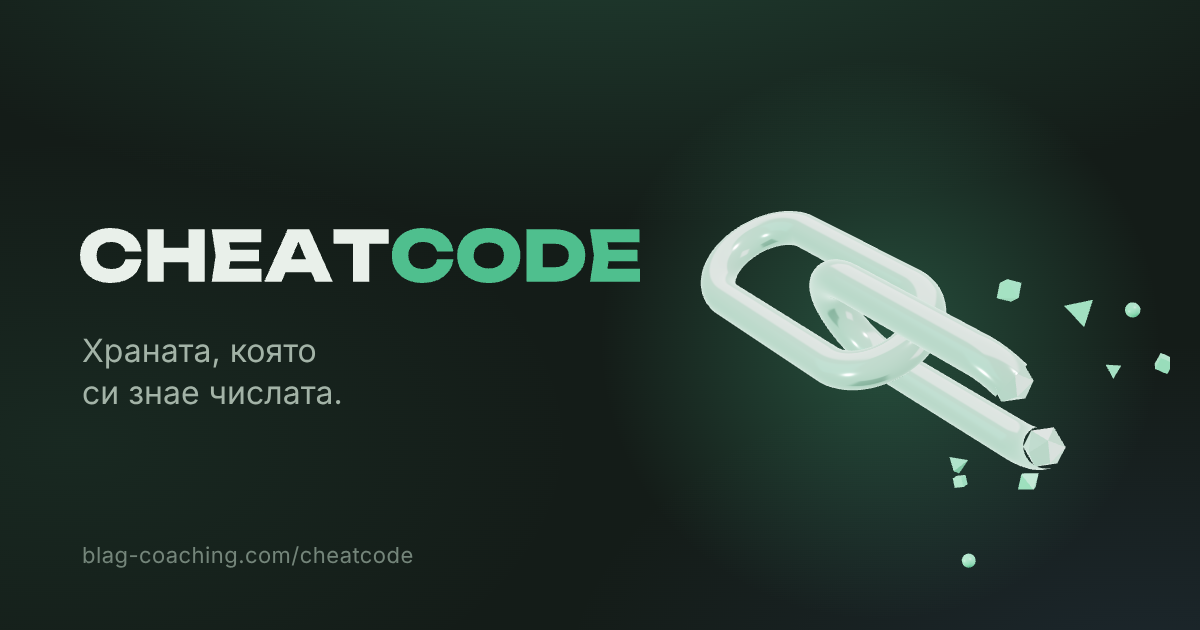
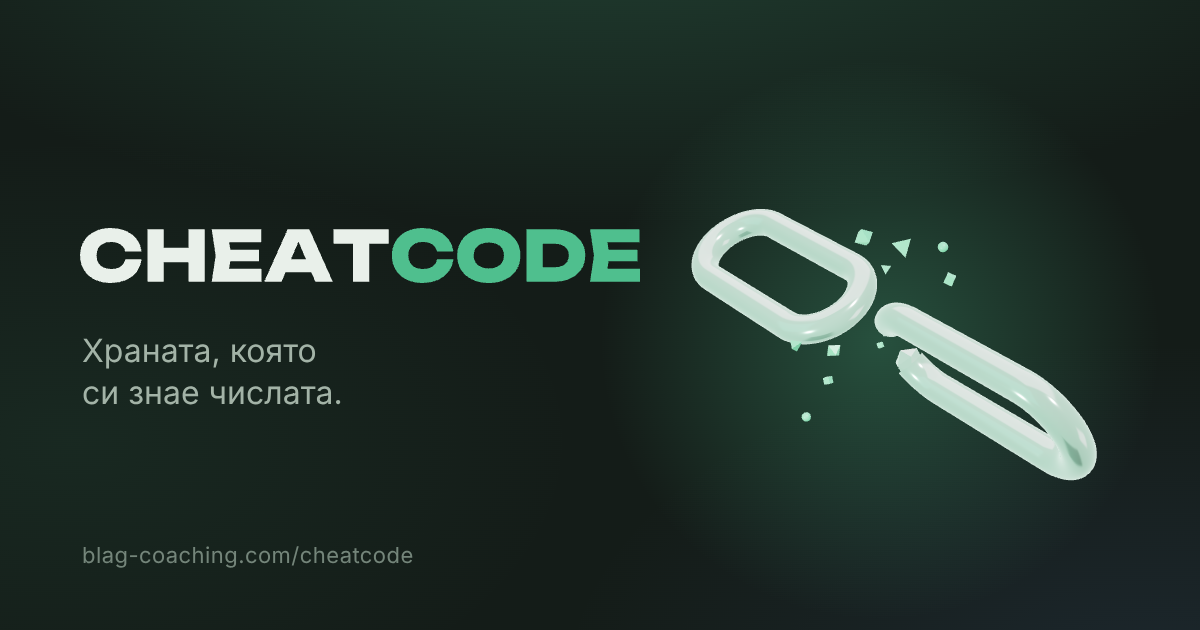
feat(чийт код): стъклената верига се къса между звената
Пролуката беше на външната дъга на второто звено и веригата се четеше като
цяла. Сега е на дъгата, която минава през първото: звената се раздалечават,
отломките са между тях. Важи навсякъде — сплаш, шапката на писмата, og.png,
CoKitchen. `gap: 'end'` връща стария вид.

Claude-Session: https://claude.ai/code/session_01KZMXYUK7WnieZQhZs7vYW8

diff --git a/public/cheatcode/glass-chain.js b/public/cheatcode/glass-chain.js
@@ -13,8 +13,10 @@
  *   gc.pose({ apart, shake, broken, burst }); gc.draw(ms)
  *   gc.idle(stageEl)   — люлеене и следене на мишката, както в CoKitchen
  *
- * Две звена-капсули под прав ъгъл; второто е скъсано на външната си дъга,
- * където нищо не я закрива. Отломките са в зеленото на марката. */
+ * Две звена-капсули под прав ъгъл. Скъсването е МЕЖДУ тях: второто звено
+ * се къса на дъгата, която минава през първото, и звената се разделят —
+ * първото излиза през пролуката. (До 08.10 пролуката беше на външната дъга
+ * на второто — `gap: 'end'` я връща.) Отломките са в зеленото на марката. */
 (function () {
   'use strict';
 
@@ -89,15 +91,18 @@
     link1.position.x = -0.95;
     chain.add(link1);
 
-    /* Второто звено: цяло (преди скъсването) и скъсано. Пролуката е 0.30–0.43. */
+    /* Второто звено: цяло (преди скъсването) и скъсано. Пролуката е част от
+       обиколката: 0.82–0.93 е средата на лявата дъга — тази, която минава
+       през първото звено; 0.30–0.43 е външната дъга. */
+    var GAP = opts.gap === 'end' ? [0.30, 0.43] : [0.82, 0.93];
     var link2 = new THREE.Group();
     link2.rotation.x = Math.PI / 2;
     link2.position.x = 0.95;
     var whole = new THREE.Mesh(new THREE.TubeGeometry(new Stadium(H, R, 0, 1), 220, T, 28, true), glass);
     var torn = new THREE.Group();
-    torn.add(new THREE.Mesh(new THREE.TubeGeometry(new Stadium(H, R, 0.43, 1.30), 220, T, 28, false), glass));
+    torn.add(new THREE.Mesh(new THREE.TubeGeometry(new Stadium(H, R, GAP[1], 1 + GAP[0]), 220, T, 28, false), glass));
     var capGeo = new THREE.IcosahedronGeometry(T * 1.02, 0);
-    [0.43, 0.30].forEach(function (u) {
+    [GAP[1], GAP[0]].forEach(function (u) {
       var m = new THREE.Mesh(capGeo, glass); m.position.copy(new Stadium(H, R, 0, 1).getPoint(u)); torn.add(m);
     });
     link2.add(whole); link2.add(torn);
@@ -111,7 +116,7 @@
        трябва да са цветовете на страницата, а не избелелите им линейни двойници. */
     if (dark) { glass.color.convertSRGBToLinear(); green.color.convertSRGBToLinear(); green.emissive.convertSRGBToLinear(); }
     var shards = [];
-    var gapAt = new THREE.Vector3().copy(new Stadium(H, R, 0, 1).getPoint(0.365))
+    var gapAt = new THREE.Vector3().copy(new Stadium(H, R, 0, 1).getPoint((GAP[0] + GAP[1]) / 2))
       .applyEuler(new THREE.Euler(Math.PI / 2, 0, 0)).add(new THREE.Vector3(0.95, 0, 0));
     [['tet', 0.16, [-0.2, 0.9, 0.5]], ['box', 0.12, [0.35, 1.15, -0.2]], ['oct', 0.14, [-0.65, 0.6, 0.85]],
      ['tet', 0.1, [0.15, -0.95, 0.6]], ['box', 0.09, [-0.5, -0.8, -0.4]], ['oct', 0.11, [0.55, -0.7, 0.3]],
@@ -120,7 +125,12 @@
         var g = d[0] === 'tet' ? new THREE.TetrahedronGeometry(d[1]) : d[0] === 'box' ? new THREE.BoxGeometry(d[1], d[1], d[1])
               : d[0] === 'oct' ? new THREE.OctahedronGeometry(d[1]) : new THREE.SphereGeometry(d[1], 16, 12);
         var m = new THREE.Mesh(g, green);
-        m.userData = { base: new THREE.Vector3(gapAt.x + d[2][0], gapAt.y + d[2][1], gapAt.z + d[2][2]), seed: i * 1.7 + 0.3 };
+        m.userData = {
+          base: new THREE.Vector3(gapAt.x + d[2][0], gapAt.y + d[2][1], gapAt.z + d[2][2]),
+          // Между звената: по-тясно по оста на веригата, широко встрани.
+          off: new THREE.Vector3(d[2][0] * 0.45, d[2][1] * 1.05, d[2][2] * 1.1),
+          seed: i * 1.7 + 0.3
+        };
         m.position.copy(m.userData.base);
         m.rotation.set(i, i * 0.7, i * 1.3);
         chain.add(m); shards.push(m);
@@ -135,8 +145,9 @@
     /* Положението на веригата — за сплаша, където тя се затваря и къса.
        apart: звената раздалечени (1 — влизат отвън); shake: напъване, в
        радиани; broken: цялото звено става скъсано; burst ∈ [0, 1]: колко са
-       излетели отломките. По подразбиране — скъсана и в покой. */
-    var state = { apart: 0, shake: 0, broken: true, burst: 1, mx: 0, my: 0, swing: true };
+       излетели отломките; open: колко са се разделили звената след
+       скъсването (расте заедно с burst). По подразбиране — скъсана и в покой. */
+    var state = { apart: 0, shake: 0, broken: true, burst: 1, open: opts.gap === 'end' ? 0 : 0.85, mx: 0, my: 0, swing: true };
     function pose(p) { for (var k in p) state[k] = p[k]; }
 
     function size() {
@@ -154,15 +165,24 @@
       chain.rotation.y = BASE.y + swingY + state.mx * 0.22;
       chain.rotation.x = BASE.x + swingX + state.my * 0.16;
       chain.rotation.z = BASE.z + state.shake;
-      link1.position.x = -0.95 - state.apart * 1.3;
-      link2.position.x = 0.95 + state.apart * 1.3;
+      var sep = state.apart + (state.broken ? state.open * state.burst : 0);
+      link1.position.x = -0.95 - sep * 1.3;
+      link2.position.x = 0.95 + sep * 1.3;
       whole.visible = !state.broken;
       torn.visible = state.broken;
       var b = state.broken ? state.burst : 0;
+      /* При скъсване между звената отломките са в празното между тях:
+         средата между дъгата на първото и пролуката на второто, която се
+         мести, докато звената се разделят. */
+      var from = gapAt, to = null;
+      if (opts.gap !== 'end') {
+        from = new THREE.Vector3((link1.position.x + H + R + link2.position.x - H - R) / 2, 0, 0);
+      }
       shards.forEach(function (m) {
         var u = m.userData;
         m.visible = b > 0.01;
-        m.position.lerpVectors(gapAt, u.base, b);
+        to = opts.gap === 'end' ? u.base : from.clone().add(u.off);
+        m.position.lerpVectors(from, to, b);
         m.position.y += Math.sin(s * 0.9 + u.seed) * 0.06 * b;
         m.scale.setScalar(0.4 + 0.6 * b);
         if (state.swing) { m.rotation.x += 0.004; m.rotation.y += 0.006; }

diff --git a/public/cheatcode/sw.js b/public/cheatcode/sw.js
@@ -1,5 +1,5 @@
 /* Генериран от scripts/build-cheatcode.mjs — не се пипа на ръка. */
-const CACHE = 'cheatcode-b6c6c23507b0';
+const CACHE = 'cheatcode-530b0c1c59bb';
 const PRECACHE = ["/cheatcode/","/cheatcode/manifest.webmanifest","/cheatcode/icon-192.png","/cheatcode/icon-512.png","/cheatcode/icon-maskable-512.png","/cheatcode/apple-icon.png","/cheatcode/favicon.svg","/cheatcode/vendor/three-r128.min.js","/cheatcode/glass-chain.js","/cheatcode/banan.jpg","/cheatcode/gris-banan.jpg","/cheatcode/gris-biskviti.jpg","/cheatcode/gris-choko.jpg","/cheatcode/gris-oba.jpg","/cheatcode/gris.jpg","/cheatcode/kakao.jpg","/cheatcode/kayma.jpg","/cheatcode/protein.jpg","/cheatcode/yagodi.jpg"];
 
 self.addEventListener('install', (e) => {

diff --git a/cheatcode/page.html b/cheatcode/page.html
@@ -4064,7 +4064,7 @@
       if (!hit[0] || !hit[1] || performance.now() - t0 > 160) return;
       return load(THREE_URL).then(function () { return load(GC_URL); }).then(function () {
         if (performance.now() - t0 > 260 || !document.body.contains(el)) return;
-        var gc = window.GlassChain && GlassChain(canvas, { tone: 'dark', sizeFrom: canvas, scale: 0.86 });
+        var gc = window.GlassChain && GlassChain(canvas, { tone: 'dark', sizeFrom: canvas, scale: 0.76 });
         if (!gc) return;
         el.classList.add('glass');
         var start = t0 + 120;

diff --git a/public/cheatcode/index.html b/public/cheatcode/index.html
@@ -4090,7 +4090,7 @@
       if (!hit[0] || !hit[1] || performance.now() - t0 > 160) return;
       return load(THREE_URL).then(function () { return load(GC_URL); }).then(function () {
         if (performance.now() - t0 > 260 || !document.body.contains(el)) return;
-        var gc = window.GlassChain && GlassChain(canvas, { tone: 'dark', sizeFrom: canvas, scale: 0.86 });
+        var gc = window.GlassChain && GlassChain(canvas, { tone: 'dark', sizeFrom: canvas, scale: 0.76 });
         if (!gc) return;
         el.classList.add('glass');
         var start = t0 + 120;

diff --git a/cheatcode/brand/mail/glass.html b/cheatcode/brand/mail/glass.html
@@ -52,7 +52,7 @@
     /* Един кадър, без люлеене: скъсана, в покой. `ready` казва на скрипта,
        че може да снима. */
     window.ready = Promise.all(Array.prototype.map.call(document.querySelectorAll('.ground canvas'), function (c) {
-      var gc = GlassChain(c, { tone: 'dark', still: true, sizeFrom: c });
+      var gc = GlassChain(c, { tone: 'dark', still: true, sizeFrom: c, scale: 0.8 });
       if (!gc) throw new Error('без WebGL');
       gc.pose({ swing: false });
       gc.draw(0);

diff --git a/cheatcode/brand/RULES.md b/cheatcode/brand/RULES.md
@@ -119,9 +119,12 @@
 
 ## Стъклената верига
 
-Скъсаната верига като стъклен обект: две звена-капсули под прав ъгъл, второто
-скъсано на външната си дъга, отломките в ментата. Не е втори знак — това е
-`chain-burst.svg` в материал. Рисува се само от `public/cheatcode/glass-chain.js`,
+Скъсаната верига като стъклен обект: две звена-капсули под прав ъгъл,
+скъсани **между** тях — второто звено е отворено на дъгата, която минаваше през
+първото, звената са раздалечени, отломките в ментата са в празното между тях.
+Не е втори знак — това е `chain-burst.svg` в материал. (До 08.10 пролуката беше
+на външната дъга на второто звено и веригата изглеждаше цяла; `gap: 'end'`
+връща онзи вид.) Рисува се само от `public/cheatcode/glass-chain.js`,
 никога преписана: една рисунка, едно място.
 
 **Къде:** където има размер и повод — представяне (CoKitchen, люлее се и следва

diff --git a/docs/obsidian/2026-10-08 Стъклената верига навсякъде.md b/docs/obsidian/2026-10-08 Стъклената верига навсякъде.md
@@ -30,3 +30,12 @@ mobile), `vite build` минава.
 
 **Къде е.** `main`. Функциите не са пипани — писмата ползват същото име
 `mail-hero.png`, новата картинка идва с качването на сайта.
+
+## Скъсването — между звената
+
+Пролуката беше на външната дъга на второто звено: веригата се четеше като цяла,
+с нащърбен край. Сега е на дъгата, която минава през първото звено — звената
+се раздалечават, първото излиза през пролуката, а отломките са в празното
+между тях. В сплаша звената се разделят заедно с излитането на отломките.
+Еднакво навсякъде — сплаш, писма, споделяне, CoKitchen (една рисунка).
+`gap: 'end'` връща стария вид. Проверено с кадри на сплаша, CoKitchen и og.png.
